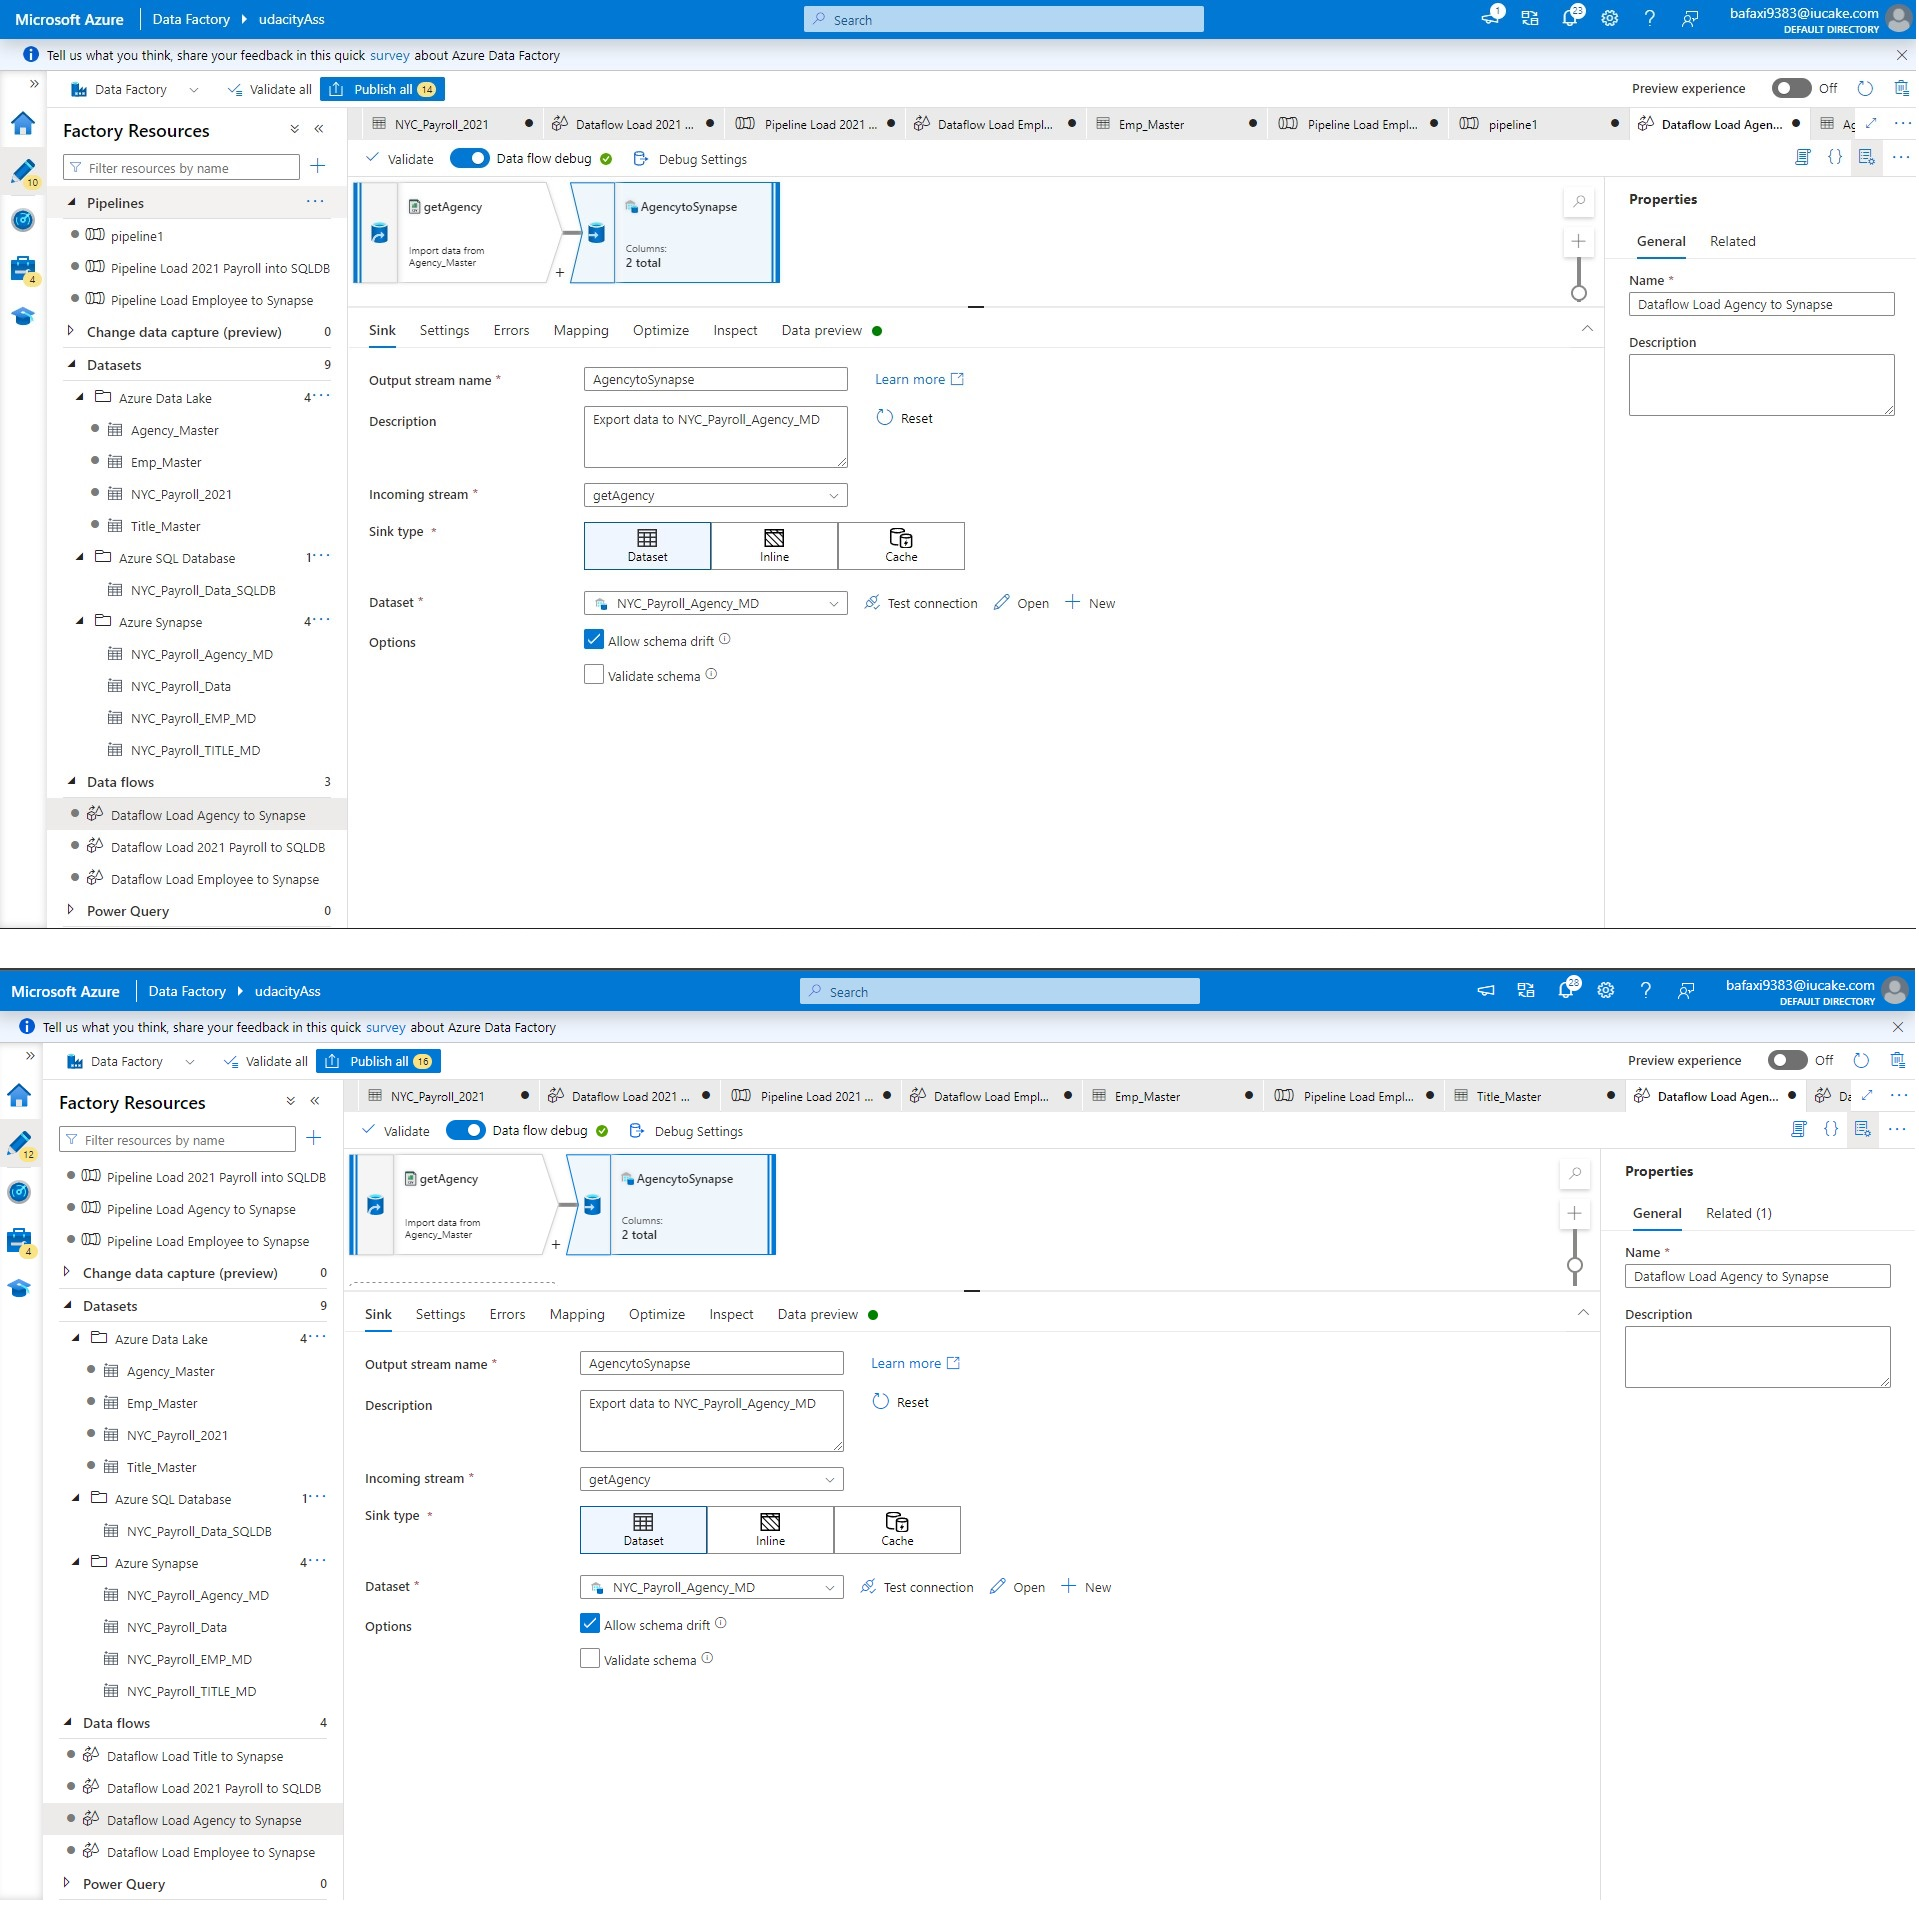
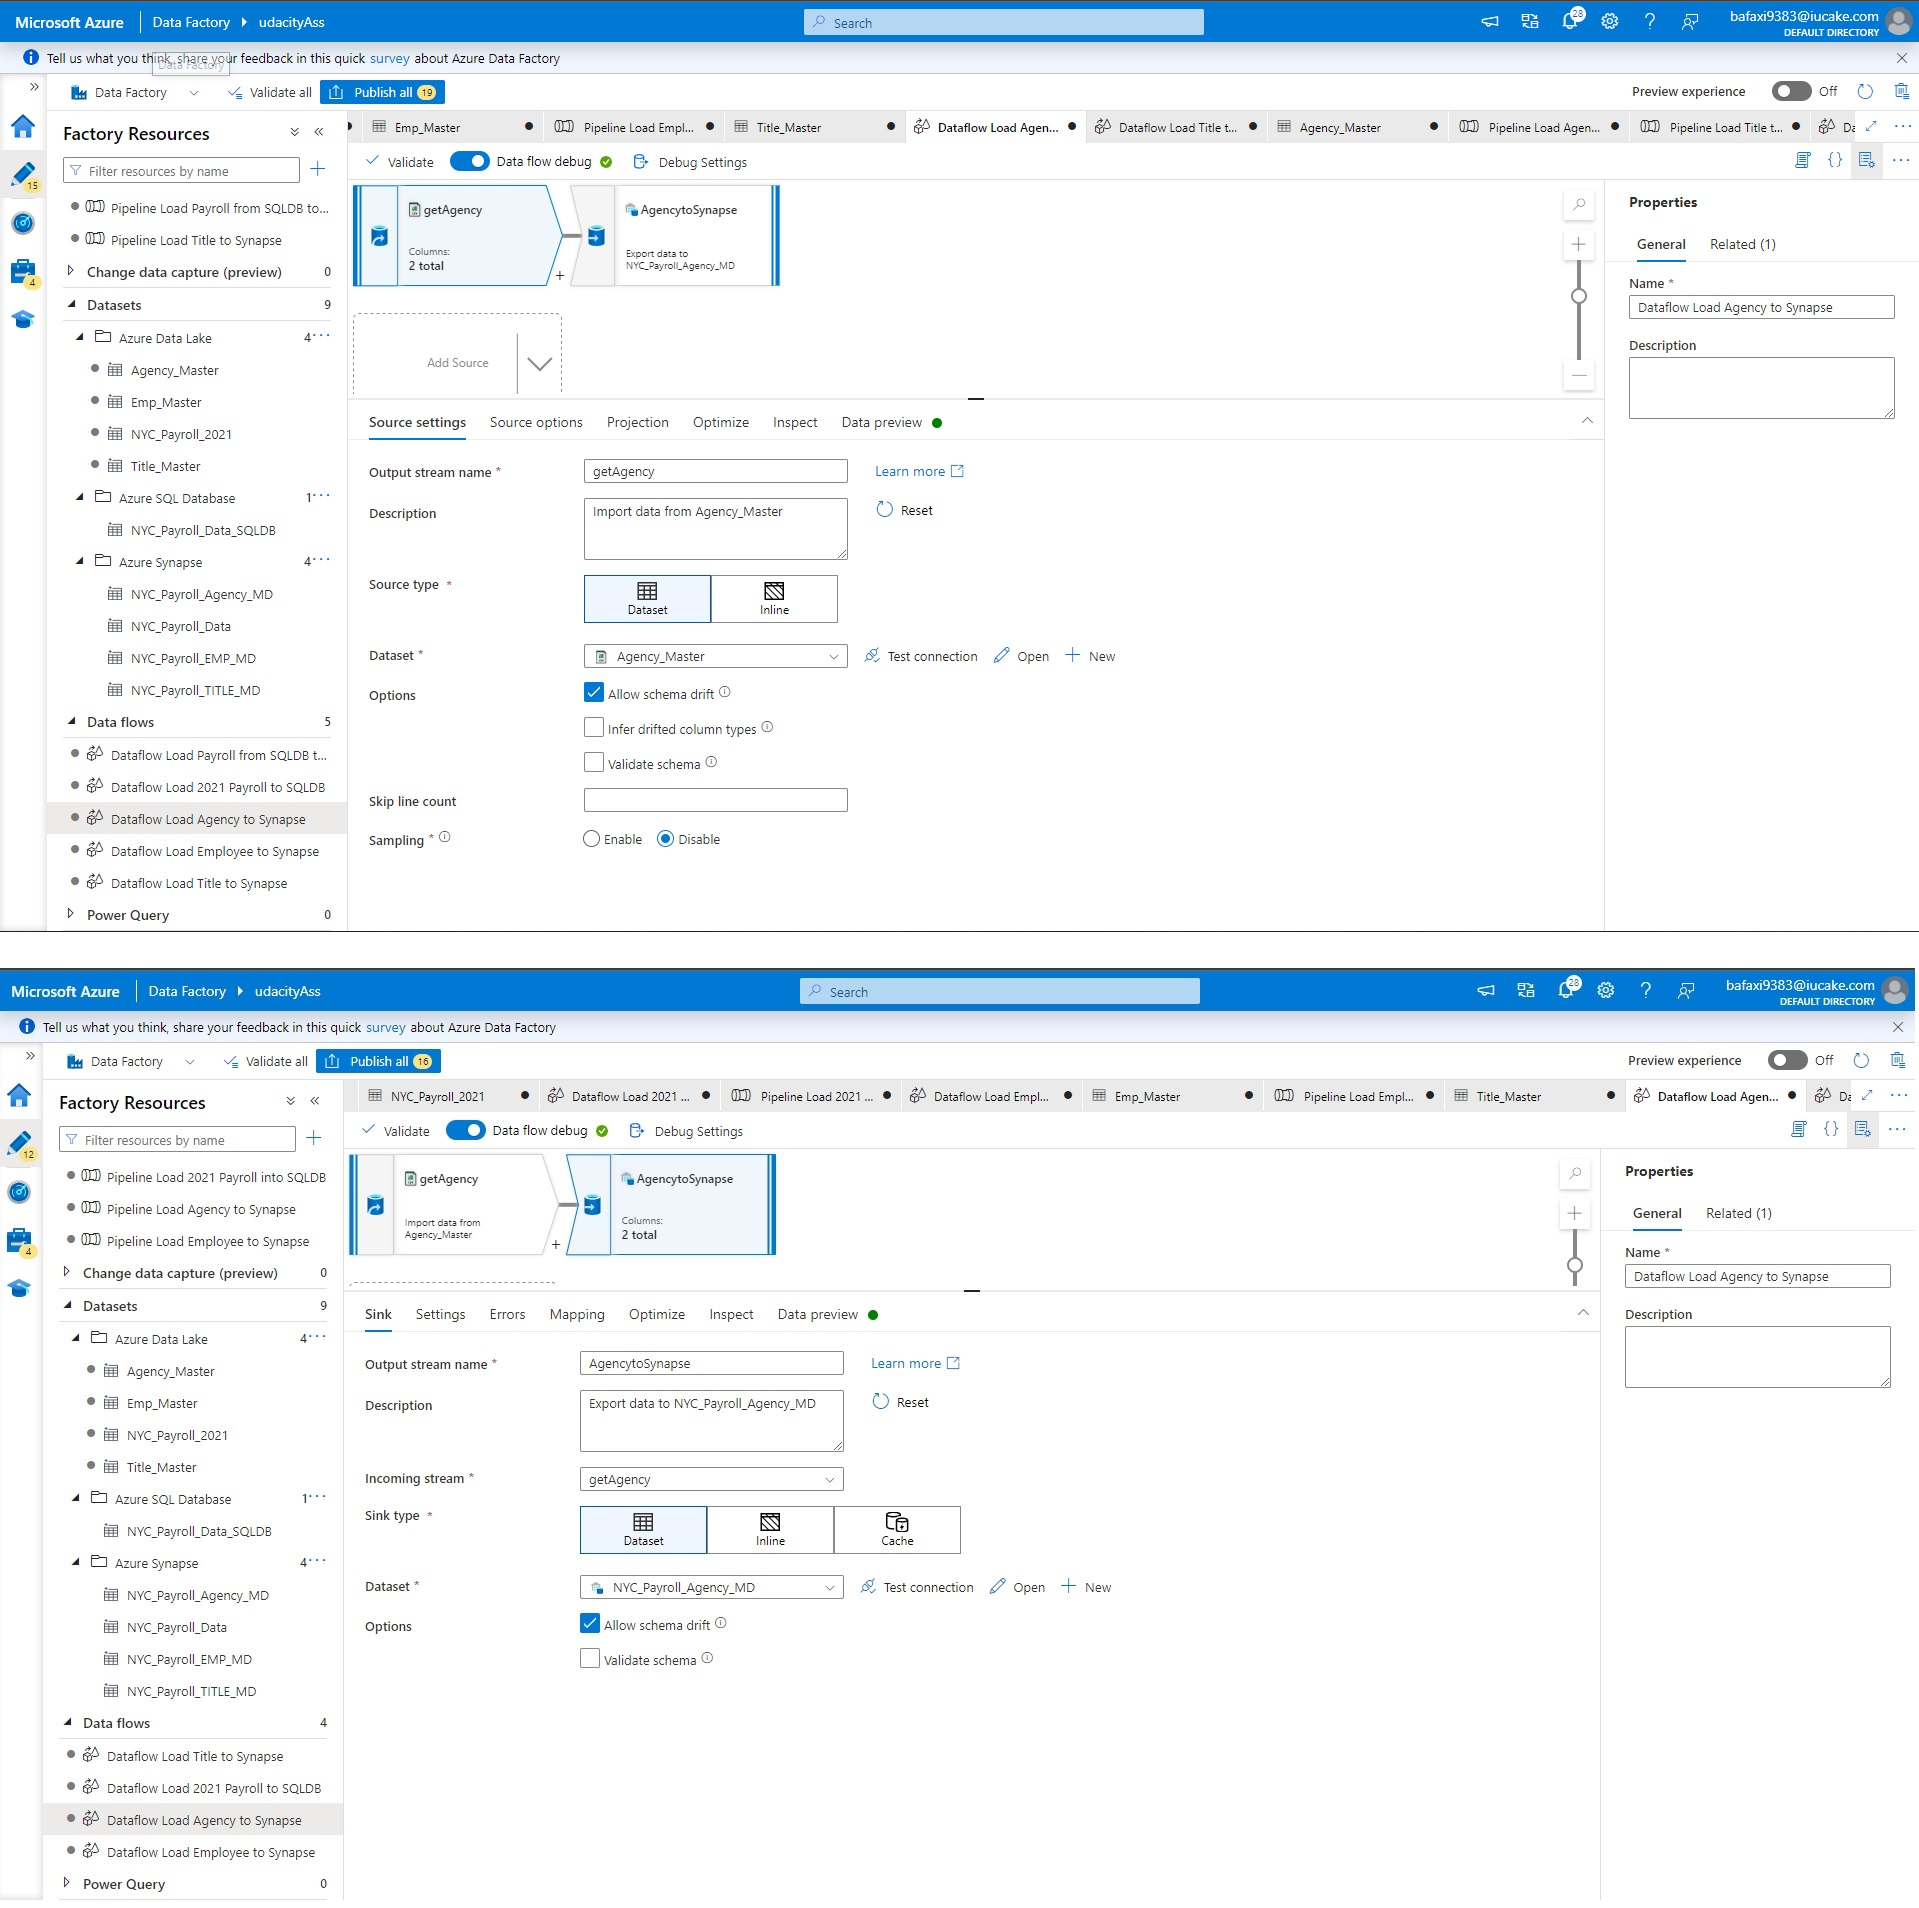
Fix the Image and add Final Words in Readme

diff --git a/Create Data Flows and Pipelines/README.md b/Create Data Flows and Pipelines/README.md
@@ -56,3 +56,7 @@ We can combined all of the above Pipeline to a be single pipeline so that all of
 
 Test the pipeline </br>
 ![alt text](https://github.com/NgoDuyVu1993/Data_Engineer_Ass5_Data_Pipeline/blob/main/Create%20Data%20Flows%20and%20Pipelines/image/Pipeline%20Load%20All%20Data%20into%20Synapse%20Run%20Success.jpg)
+
+## End of Create Data Flows and Pipelines
+The following Data Flows and Pipelines are available in our Data Factory after we finished the forth step </br>
+![alt text](https://github.com/NgoDuyVu1993/Data_Engineer_Ass5_Data_Pipeline/blob/main/Create%20Data%20Flows%20and%20Pipelines/image/All%20Dataflows%20and%Pipelines.jpg)
